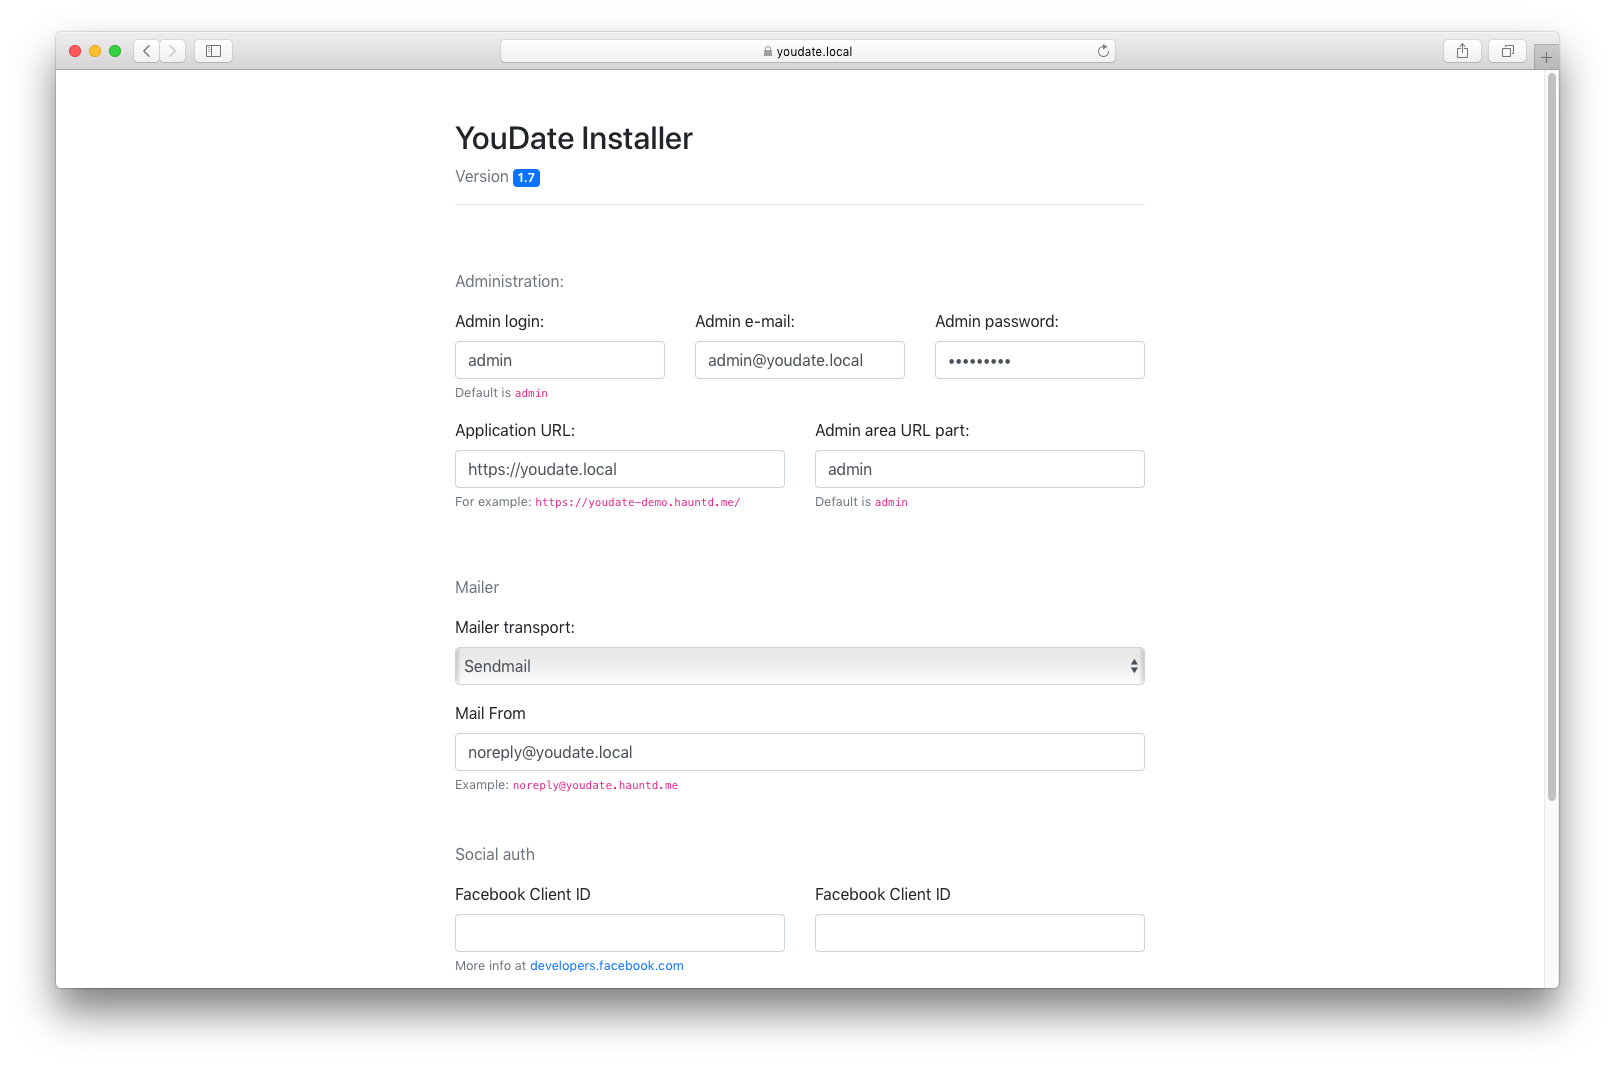
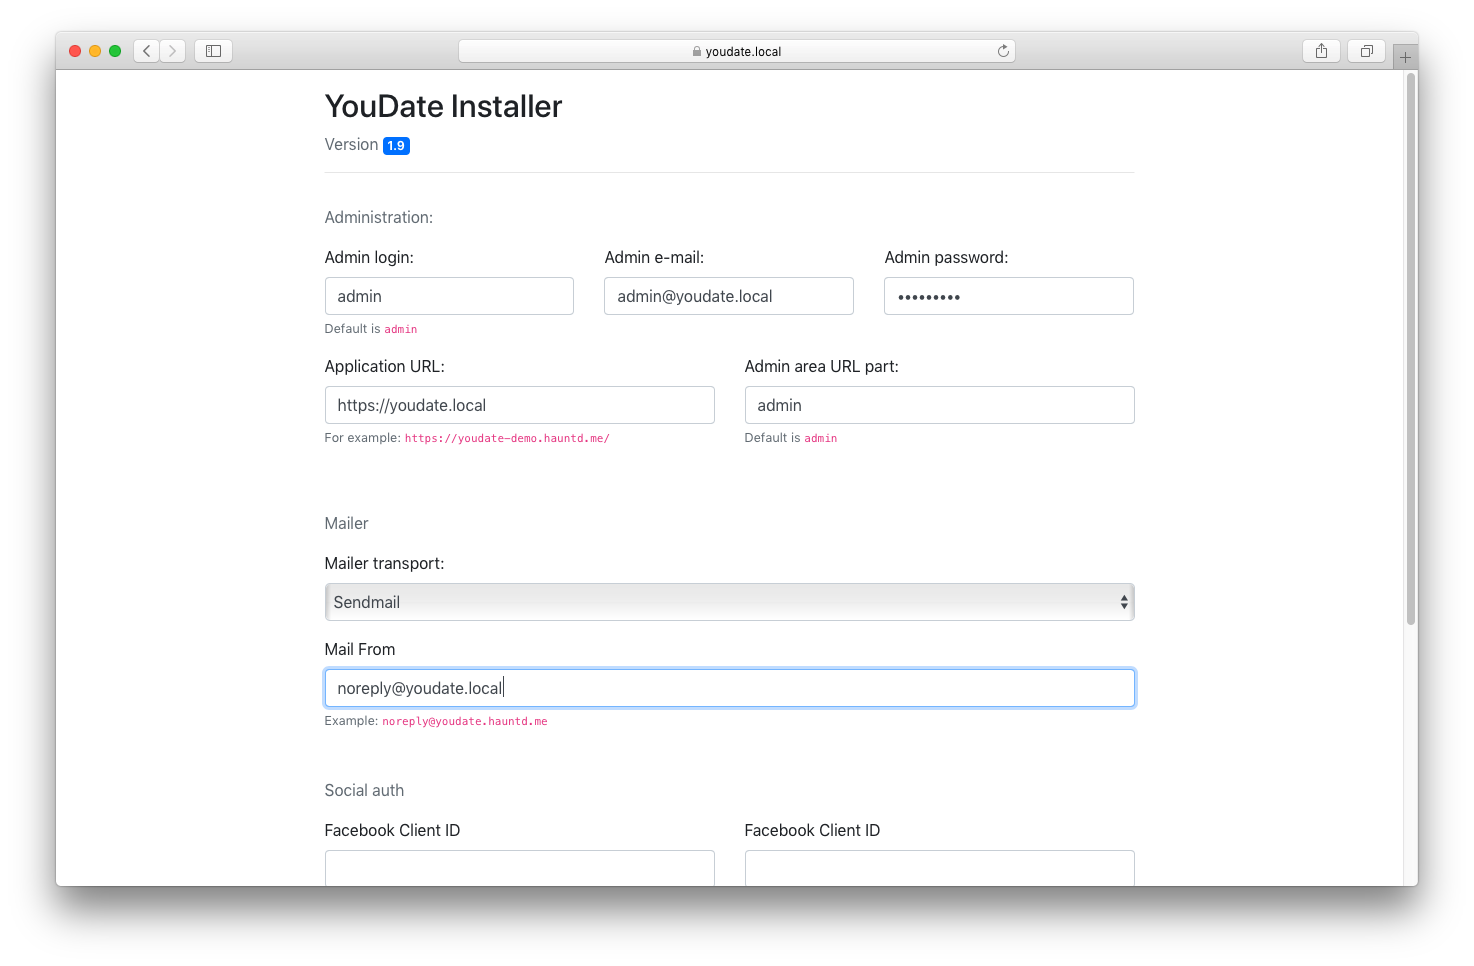
Docs update

diff --git a/docs/index.md b/docs/index.md
@@ -2,7 +2,7 @@
 
 [![Codecanyon URL](./images/590x300.jpg)](https://codecanyon.net/item/youdate-dating-script/22474999)
 
-**YouDate** is a dating script powered by PHP framework Yii 2.0.19
+**YouDate** is a dating script powered by PHP framework Yii 2.0
 
 Core features and possibilities: 
 
@@ -14,7 +14,7 @@ Core features and possibilities:
 * Custom sex/gender options
 * Photo moderation 
 * Connections: likes, mutual likes, guests 
-* Messaging 
+* Messaging, attachments (photos)
 * Gifts (multiple categories support)
 * Premium features like raising up in search or incognito mode, prioritized messages 
 * Administration area 
@@ -25,7 +25,8 @@ Core features and possibilities:
 * Theme customization (create your own theme or extend from existing one)
 * RTL support (main theme) 
 * Languages support: English (by default), Arabic, Czech, French, German, Italian, Russian, Spanish 
-* Language editor: add your own languages in admin area 
+* Language editor: add your own languages in admin area
+* GDPR-related: profile data export (HTML or JSON); ability to delete data
 
 ### Online documentation
 

diff --git a/docs/installation.md b/docs/installation.md
@@ -1,3 +1,9 @@
+# Installation
+
+You can install YouDate script in two ways: by using web-installer or manually.
+
+## Web-Installer (recommended)
+
 ### Requirements check
 
 After uploading files to your web-server/hosting, open your website in the browser. 
@@ -49,4 +55,19 @@ The next step is to create a config file. This action will verify configuration 
 
 Fill the form, click **Finish** button. Script is almost ready to use. Next step is to configure [cron](./cron.md) commands.
 
+## Manual installation
+
+1. Create a database for YouDate script
+2. Import one by one these SQL files:
+    * `Files/youdate-1.9-manual-installation.sql` 
+    * `Files/countries.sql` 
+    * `Files/geodata.sql`
+3. Open your script directory, find config template `.env-example` and rename it to `.env`
+4. Edit `.env` file: set database credentials, define mailer configuration, social auth credentials etc.
+5. Make sure that these script directories are writable:
+    * `application/runtime`
+    * `content/params`
+    * `content/images`
+    * `content\photos`
+    * `content\cache`
 

diff --git a/docs/cron.md b/docs/cron.md
@@ -8,6 +8,9 @@ YouDate requires three CRON commands: two for common tasks (**hourly, daily**) a
 
 Cron commands for hourly/daily tasks and queue processing are:
    
+!!! note "Warning"
+    These paths are examples, you should specify the correct path to the script
+   
 ```sh
 30 * * * * /path/to/youdate/application/yii cron/hourly >/dev/null 2>&1
 0 18 * * * /path/to/youdate/application/yii cron/daily >/dev/null 2>&1               
@@ -58,6 +61,12 @@ if (in_array($action, $availableCommands)) {
     die("$action not supported");
 }
 ```
+
+Then you need to execute this script periodically. For example, you can use [EasyCron](https://www.easycron.com/?ref=139872) for this.
+
+Detailed documentation located here: 
+
+https://www.easycron.com/cron-job-tutorials/how-to-set-up-cron-job-for-youdate-dating-script
                    
 ### Better queue processing (*recommended*)
        

diff --git a/docs/upgrade.md b/docs/upgrade.md
@@ -10,10 +10,10 @@ Then open your website or visit administration area. Application will install da
 
 #### Upgrade to 1.9
 
-1. Follow the upgrade procedure described above. Then you need to import additional SQL dump, using any preferred MySQL client (phpMyAdmin, HeidiSQL, Sequel Pro or any other).
-
-Files to import: `Source/countries.sql`, `Source/geodata.sql`.
-
+1. Follow the upgrade procedure described above. Then you need to import additional SQL dump files (phpMyAdmin, HeidiSQL, Sequel Pro or any other, that support SQL import).
+Files to import: 
+    * `Source/countries.sql`
+    * `Source/geodata.sql`
 2. Add this line to your `.env` config file:
 
 ```
